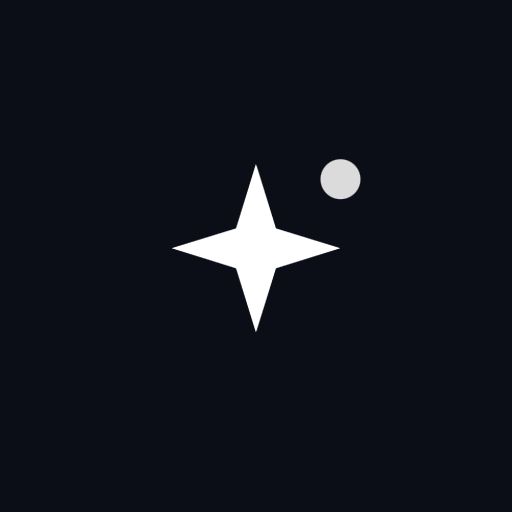
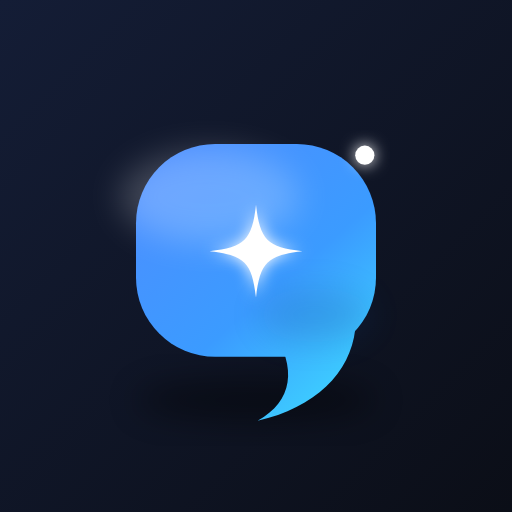
iChat v1.2.2 - تصميم ايقونة جديد انسيابي (فقاعة سايحة + شرارة)

Changed region(s): [[0.1875, 0.25, 0.75, 0.8125], [0.0, 0.0, 0.4375, 0.4375], [0.5, 0.8125, 0.5312, 0.8438]]

diff --git a/index.html b/index.html
@@ -133,7 +133,7 @@ try{
   <div class="picker-row" id="rowGlass"><span class="pr-ico"><svg viewBox="0 0 24 24" width="20" height="20" fill="none" stroke="currentColor" stroke-width="1.8" stroke-linejoin="round"><path d="M12 2.5 20 7v10l-8 4.5L4 17V7z"/><path d="M4 7l8 4.5L20 7M12 11.5V21.5"/></svg></span><span class="pr-name">الزجاج</span><span class="pr-val" id="valGlass">ناعم</span></div>
   <div class="picker-row" id="rowBg"><span class="pr-ico"><svg viewBox="0 0 24 24" width="20" height="20" fill="none" stroke="currentColor" stroke-width="1.8" stroke-linecap="round" stroke-linejoin="round"><rect x="3" y="3" width="18" height="18" rx="3"/><circle cx="9" cy="9" r="2"/><path d="M21 15.5 16 11l-9 9"/></svg></span><span class="pr-name">الخلفية</span><span class="pr-val" id="valBg">متحركة</span></div>
   <div class="picker-row" id="rowUsage"><span class="pr-ico"><svg viewBox="0 0 24 24" width="20" height="20" fill="none" stroke="currentColor" stroke-width="2.2" stroke-linecap="round"><path d="M5 20V14M12 20V8M19 20V4"/></svg></span><span class="pr-name">استخدام اليوم</span><span class="pr-val" id="valUsage">0 طلب</span></div>
-  <div class="picker-row static"><span class="pr-ico"><svg viewBox="0 0 24 24" width="20" height="20" fill="none" stroke="currentColor" stroke-width="1.8" stroke-linecap="round"><circle cx="12" cy="12" r="9"/><path d="M12 11v6M12 7.5h.01" stroke-width="2.4"/></svg></span><span class="pr-name">الإصدار</span><span class="pr-val" id="valVersion">v1.2.1</span></div>
+  <div class="picker-row static"><span class="pr-ico"><svg viewBox="0 0 24 24" width="20" height="20" fill="none" stroke="currentColor" stroke-width="1.8" stroke-linecap="round"><circle cx="12" cy="12" r="9"/><path d="M12 11v6M12 7.5h.01" stroke-width="2.4"/></svg></span><span class="pr-name">الإصدار</span><span class="pr-val" id="valVersion">v1.2.2</span></div>
 </div>
 
 <!-- قائمة اختيار (picker) -->

diff --git a/app.js b/app.js
@@ -5,7 +5,7 @@
 'use strict';
 
 /* ===== ثوابت ===== */
-const APP_VERSION = 'v1.2.1';            // تزامن مع VERSION في sw.js
+const APP_VERSION = 'v1.2.2';            // تزامن مع VERSION في sw.js
 const LS_PREFS = 'ichat:prefs';
 const LS_CHATS = 'ichat:chats';
 const LS_UI    = 'ichat:ui';

diff --git a/sw.js b/sw.js
@@ -1,5 +1,5 @@
 /* iChat — Service Worker */
-const VERSION = 'ichat-v1.2.1';
+const VERSION = 'ichat-v1.2.2';
 const CACHE = VERSION;
 const ASSETS = [
   './',
